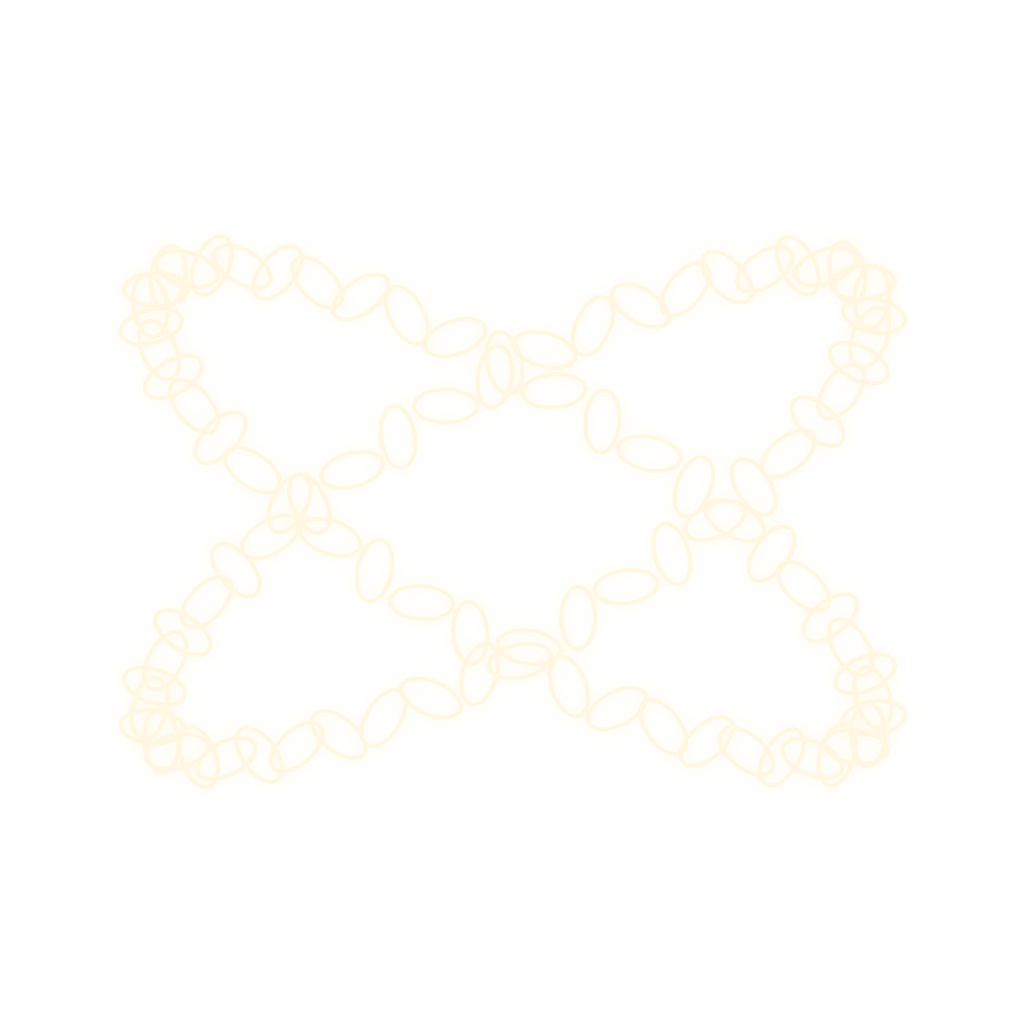
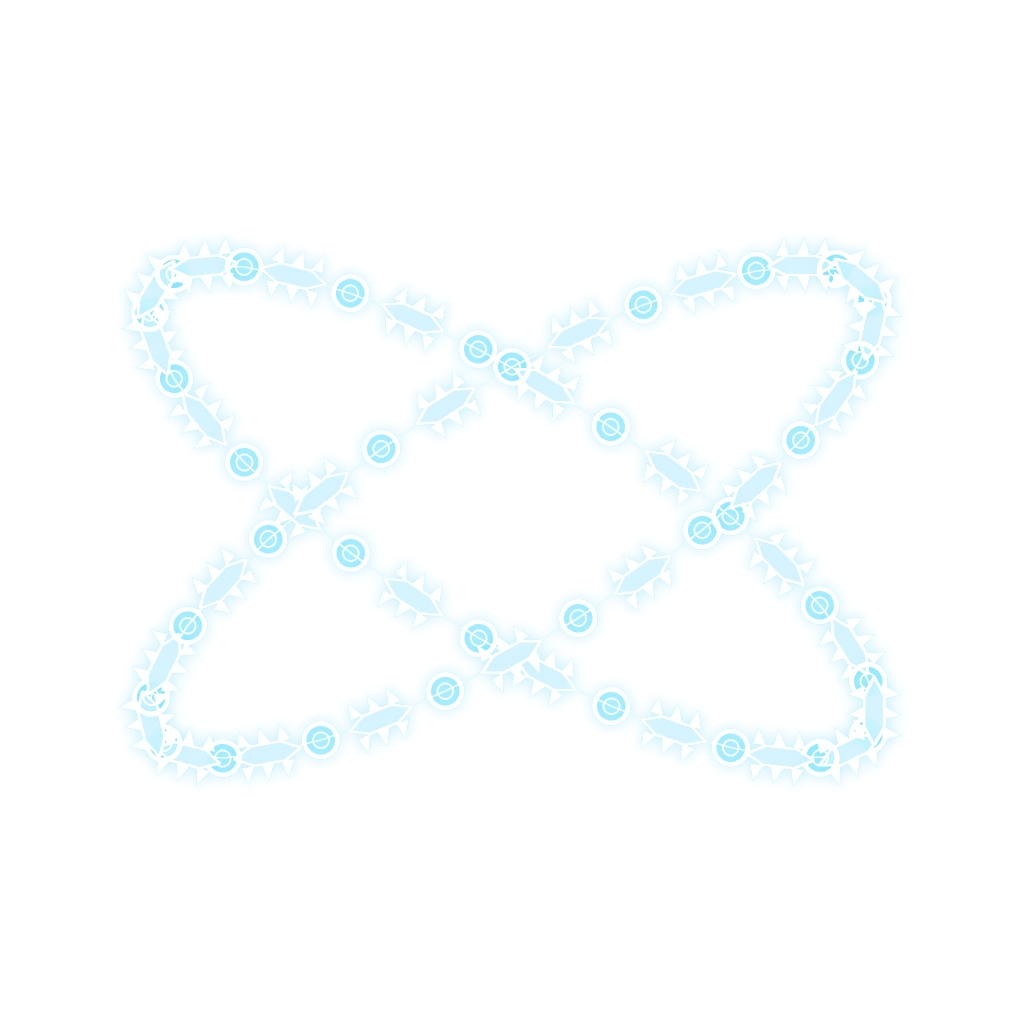
進化演出を動画に近づける: 鎖・虹の輪・光条の画像を焼き直し、砕けた破片・左下の玉・きらめきを追加
Claude-Session: https://claude.ai/code/session_01FxCrk9hxf4oWbZTpVnS7bs

Changed region(s): [[0.125, 0.2188, 0.9062, 0.7812]]

diff --git a/web/src/BattleScreen.jsx b/web/src/BattleScreen.jsx
@@ -297,7 +297,8 @@ function useSummonSlide() {
 
 const EVO_IMG = (n) => `url(${import.meta.env?.BASE_URL || '/'}fx/evolve/${n}.webp)`
 const EVO_L = { position: 'absolute', inset: 0, backgroundSize: '100% 100%', backgroundRepeat: 'no-repeat', willChange: 'transform, opacity' }
-const EVO_RB = [[0.03, 0.9], [0.1, 0.7]]
+const EVO_RB = [[0.03, 0.95], [0.11, 0.6]]
+const EVO_TWINKLE = Array.from({ length: 26 }, (_, n) => { const a = n * 2.39996; const rr = 20 + (n % 6) * 11; const cs = ['#ffffff', '#ffe3f0', '#d6f6ff', '#fff6c8', '#e8dcff']; return { x: 50 + Math.cos(a) * rr * 1.05, y: 50 + Math.sin(a) * rr * 1.12, s: 2 + (n % 4) * 1.4, c: cs[n % 5], d: 0.12 + (n % 9) * 0.045, dur: 0.4 + (n % 4) * 0.08 } }) // 動画の丸いパステルのきらめき(白・桃・水色・黄・薄紫)
 const EVO_SPARK = Array.from({ length: 24 }, (_, n) => { const a = n * 2.39996; const ring = 54 + (n % 4) * 7; return { x: 50 + Math.cos(a) * ring, y: 50 + Math.sin(a) * ring * 1.05, s: 2 + (n % 3) * 1.6, dx: Math.round(Math.cos(a) * (14 + (n % 3) * 6)), dy: -8 - (n % 4) * 7, d: 0.42 + (n % 8) * 0.03, dur: 0.38 + (n % 4) * 0.08 } }) // 鎖がほどけて砕け、青白い破片になって外へ散る(動画: 鎖が絞られ → ほどけ → 破片)
 // 名前が枠に入り切らないときは、2行にせず、1行に収まるまで文字を小さくする(動かさない)。
 // 小さくしすぎて読めなくならないよう、下限(元の約55%)で止め、それでも入らない分は「…」で省く
@@ -493,12 +494,16 @@ export function UnitCard({ unit, active, selected, selectable, lift = true, insp
             <span style={{ ...EVO_L, backgroundImage: EVO_IMG('rays'), opacity: 0, animation: 'feel-ev2-burst 0.3s ease-out 0.04s both' }} />
           </span>
           <span style={{ position: 'absolute', inset: 0, borderRadius: 8, background: '#fff', opacity: 0, animation: 'feel-ev2-flash 0.24s ease-out 0s both' }} />
-          <span style={{ position: 'absolute', inset: -2, borderRadius: 10, boxShadow: '0 0 16px 5px rgba(255,236,150,0.95), inset 0 0 14px 2px rgba(255,244,190,0.8)', opacity: 0, animation: 'feel-ev2-rim 0.8s ease-in-out 0.1s both', willChange: 'opacity' }} />
-          <span style={{ position: 'absolute', left: '50%', top: '50%', height: '122%', aspectRatio: '1', transform: 'translate(-50%, -50%)' }}><span style={{ position: 'absolute', inset: 0, borderRadius: '50%', background: 'radial-gradient(circle, rgba(255,255,255,0.98) 0%, rgba(255,235,250,0.95) 45%, rgba(255,214,240,0.75) 72%, rgba(255,255,255,0) 100%)', opacity: 0, animation: 'feel-ev2-orb 0.34s ease-out 0.02s both', willChange: 'transform, opacity' }} /></span>
+          <span style={{ position: 'absolute', left: '-4%', bottom: '-4%', width: '30%', aspectRatio: '1', borderRadius: '50%', border: '3px solid rgba(150,236,255,0.95)', background: 'radial-gradient(circle, rgba(190,248,255,0.85) 0%, rgba(90,200,246,0.55) 60%, rgba(60,170,240,0.1) 100%)', boxShadow: '0 0 14px 4px rgba(110,222,255,0.8)', opacity: 0, animation: 'feel-ev2-coin 0.5s ease-out 0s both', willChange: 'transform, opacity' }} />
+          <span style={{ position: 'absolute', inset: -2, borderRadius: 10, boxShadow: '0 0 18px 6px rgba(196,246,238,0.9), inset 0 0 14px 2px rgba(236,255,250,0.75)', opacity: 0, animation: 'feel-ev2-rim 0.8s ease-in-out 0.1s both', willChange: 'opacity' }} />
+          <span style={{ position: 'absolute', left: '50%', top: '50%', height: '122%', aspectRatio: '1', transform: 'translate(-50%, -50%)' }}><span style={{ position: 'absolute', inset: 0, borderRadius: '50%', background: 'radial-gradient(circle, rgba(255,255,252,0.98) 0%, rgba(255,250,228,0.95) 45%, rgba(255,242,205,0.7) 72%, rgba(255,255,255,0) 100%)', opacity: 0, animation: 'feel-ev2-orb 0.34s ease-out 0.02s both', willChange: 'transform, opacity' }} /></span>
           <span style={{ position: 'absolute', left: '50%', top: '50%', height: '210%', aspectRatio: '1', transform: 'translate(-50%, -50%)' }}>
-            <span style={{ ...EVO_L, backgroundImage: EVO_IMG('chain'), opacity: 0, animation: 'feel-ev2-chain 0.62s ease-in-out 0.03s both' }} />
-            <span style={{ ...EVO_L, backgroundImage: EVO_IMG('chain'), opacity: 0, animation: 'feel-ev2-chain2 0.62s ease-in-out 0.08s both' }} />
+            <span style={{ ...EVO_L, backgroundImage: EVO_IMG('chain'), opacity: 0, animation: 'feel-ev2-chain 0.5s ease-in-out 0.05s both' }} />
+            <span style={{ ...EVO_L, backgroundImage: EVO_IMG('chain'), opacity: 0, animation: 'feel-ev2-chain2 0.5s ease-in-out 0.07s both' }} />
+            <span style={{ ...EVO_L, backgroundImage: EVO_IMG('shards'), opacity: 0, animation: 'feel-ev2-shard 0.5s ease-out 0.28s both' }} />
+            <span style={{ ...EVO_L, backgroundImage: EVO_IMG('shards'), opacity: 0, transform: 'scaleX(-1)', animation: 'feel-ev2-shard2 0.5s ease-out 0.32s both' }} />
           </span>
+          {EVO_TWINKLE.map((q, n) => <span key={`tw${n}`} style={{ position: 'absolute', left: `${q.x}%`, top: `${q.y}%`, width: q.s, height: q.s, marginLeft: -q.s / 2, marginTop: -q.s / 2, borderRadius: '50%', background: q.c, boxShadow: `0 0 ${q.s + 3}px ${q.s / 3}px ${q.c}`, opacity: 0, animation: `feel-ev2-tw ${q.dur}s ease-in-out ${q.d}s both`, willChange: 'transform, opacity' }} />)}
           {EVO_SPARK.map((q, n) => <span key={`sp${n}`} style={{ position: 'absolute', left: `${q.x}%`, top: `${q.y}%`, width: q.s, height: q.s, marginLeft: -q.s / 2, marginTop: -q.s / 2, borderRadius: '50%', background: '#fff', boxShadow: '0 0 5px 1px rgba(170,238,255,0.95)', opacity: 0, '--dx': `${q.dx}px`, '--dy': `${q.dy}px`, animation: `feel-ev2-spark ${q.dur}s ease-out ${q.d}s both`, willChange: 'transform, opacity' }} />)}
         </span>
       )}
@@ -986,7 +991,7 @@ function reorderBoost(evs) {
   return out
 }
 export const VANISH_SLOW = 1 // 消滅エフェクトの長さの倍率。1 = 0.9秒(ルール画面と同じ基準・56コマで約62fps)。EFFECTS.mdの基準値。
-const EVENT_MS = { turn: 700, ability: 300, attack: 300, damage: 900, heal: 800, summon: 800, block: 800, buff: 900, keyword: 900, evolve: 1050, destroy: 800, vanish: Math.round(950 * VANISH_SLOW), av: 800, sync: 300 }
+const EVENT_MS = { turn: 700, ability: 300, attack: 300, damage: 900, heal: 800, summon: 800, block: 800, buff: 900, keyword: 900, evolve: 1000, destroy: 800, vanish: Math.round(950 * VANISH_SLOW), av: 800, sync: 300 }
 
 // 案内所 → CPU戦 → チーム を通って来たとき(flow)は、levelInit / teamInit / spellsInit が渡され、すぐ対戦が始まる。onBackLevel: レベルを選ぶ画面へ / onBackTeam: チームを選ぶ画面へ
 export default function BattleScreen({ format = 'rotation', settingsView = null, onExit, cpuDelay = 700, rewardApi: rewardApiProp = null, partyApi = null, levelInit = null, teamInit = null, spellsInit = null, onBackLevel = null, onBackTeam = null, online = null, testInit = null }) {

diff --git a/web/src/ui.js b/web/src/ui.js
@@ -116,11 +116,15 @@ if (typeof document !== 'undefined' && !document.getElementById('feel-base-style
     @keyframes feel-ev2-rb { 0% { opacity: 0; transform: scale(0.55); } 30% { opacity: var(--o, 0.9); } 100% { opacity: 0; transform: scale(1.3); } }
     @keyframes feel-ev2-ray { 0% { opacity: 0; transform: scale(0.55) rotate(0deg); } 25% { opacity: 0.9; } 100% { opacity: 0; transform: scale(1.2) rotate(6deg); } }
     @keyframes feel-ev2-burst { 0% { opacity: 0; transform: scale(0.7); } 30% { opacity: 1; } 100% { opacity: 0; transform: scale(1.5); } }
-    @keyframes feel-ev2-flash { 0% { opacity: 0; } 22% { opacity: 1; } 55% { opacity: 0.45; } 100% { opacity: 0; } }
+    @keyframes feel-ev2-flash { 0% { opacity: 0; } 25% { opacity: 1; } 60% { opacity: 0.35; } 100% { opacity: 0; } }
     @keyframes feel-ev2-rim { 0% { opacity: 0; } 20% { opacity: 0.95; } 55% { opacity: 0.7; } 100% { opacity: 0; } }
     @keyframes feel-ev2-orb { 0% { opacity: 0; transform: scale(0.6); } 30% { opacity: 0.85; transform: scale(1); } 100% { opacity: 0; transform: scale(1.35); } }
-    @keyframes feel-ev2-chain { 0% { opacity: 0; transform: scale(1.12) rotate(-12deg); } 16% { opacity: 1; } 48% { opacity: 1; transform: scale(0.9) rotate(14deg); } 100% { opacity: 0; transform: scale(1.22) rotate(42deg); } }
-    @keyframes feel-ev2-chain2 { 0% { opacity: 0; transform: scale(1.16) rotate(12deg); } 16% { opacity: 0.9; } 48% { opacity: 0.9; transform: scale(0.94) rotate(-14deg); } 100% { opacity: 0; transform: scale(1.26) rotate(-42deg); } }
+    @keyframes feel-ev2-chain { 0% { opacity: 0; transform: scale(1.1) rotate(-8deg); } 26% { opacity: 1; transform: scale(1.04) rotate(0deg); } 56% { opacity: 1; transform: scale(0.93) rotate(10deg); } 82% { opacity: 0.9; transform: scale(1.1) rotate(22deg); } 100% { opacity: 0; transform: scale(1.16) rotate(28deg); } }
+    @keyframes feel-ev2-chain2 { 0% { opacity: 0; transform: scale(1.14) rotate(8deg); } 26% { opacity: 0.95; transform: scale(1.06) rotate(0deg); } 56% { opacity: 0.95; transform: scale(0.96) rotate(-10deg); } 82% { opacity: 0.85; transform: scale(1.12) rotate(-22deg); } 100% { opacity: 0; transform: scale(1.18) rotate(-28deg); } }
+    @keyframes feel-ev2-shard { 0% { opacity: 0; transform: scale(0.96) rotate(0deg); } 20% { opacity: 1; } 100% { opacity: 0; transform: scale(1.26) rotate(30deg) translateY(-3%); } }
+    @keyframes feel-ev2-shard2 { 0% { opacity: 0; transform: scaleX(-1) scale(0.98) rotate(0deg); } 20% { opacity: 0.8; } 100% { opacity: 0; transform: scaleX(-1) scale(1.3) rotate(-26deg) translateY(-4%); } }
+    @keyframes feel-ev2-coin { 0% { opacity: 0; transform: scale(0.6); } 25% { opacity: 1; transform: scale(1); } 60% { opacity: 0.9; transform: scale(1.15); } 100% { opacity: 0; transform: scale(1.5); } }
+    @keyframes feel-ev2-tw { 0% { opacity: 0; transform: scale(0.3); } 35% { opacity: 1; transform: scale(1); } 100% { opacity: 0; transform: scale(0.6) translateY(-6px); } }
     @keyframes feel-ev2-spark { 0% { opacity: 0; transform: translate(0, 0) scale(0.5); } 25% { opacity: 1; } 100% { opacity: 0; transform: translate(var(--dx), var(--dy)) scale(1); } }
     @keyframes feel-d-haze { 0% { opacity: 0; transform: scale(0.5); } 15% { opacity: 0.9; transform: scale(0.9); } 100% { opacity: 0; transform: scale(1.5); } }
     @keyframes feel-d-gold { 0%, 8% { opacity: 0; transform: translate(0, 0) scale(0.4); } 22% { opacity: 1; } 100% { opacity: 0; transform: translate(var(--dx), var(--dy)) scale(1); } }

diff --git a/web/src/EffectGallery.jsx b/web/src/EffectGallery.jsx
@@ -29,7 +29,7 @@ const LIST = [
   ['能力付与', '【守護】などの能力を得る。', 900, (p) => ({ unit: baseUnit, fx: p ? { kind: 'keyword', text: '【守護】獲得' } : null })],
   ['召喚', 'ユニットが場に出る。', 800, (p) => ({ unit: baseUnit, fx: p ? { kind: 'summon', text: '登場!' } : null })],
   ['攻撃を防ぐ', 'バリアや回避で、ダメージが入らない。', 800, (p) => ({ unit: baseUnit, fx: p ? { kind: 'block', text: '' } : null })],
-  ['進化', '虹色の波紋と光の筋、白い光の球、鎖状の輪(参考動画の再現。ユニットは回転しない)。', 1050, (p) => ({ unit: baseUnit, fx: p ? { kind: 'evolve', text: '' } : null })],
+  ['進化', '虹色の波紋と光の筋、白い光の球、鎖状の輪(参考動画の再現。ユニットは回転しない)。', 1000, (p) => ({ unit: baseUnit, fx: p ? { kind: 'evolve', text: '' } : null })],
   ['破壊(ラストワードなし)', '金白の閃光から、金色の粒になって散る。', 800, (p) => ({ unit: p ? { ...baseUnit, hp: 0, alive: false } : baseUnit, fx: p ? { kind: 'none', text: '', die: 'destroy', lw: false } : null })],
   ['破壊(ラストワードあり)', '赤い円とドクロ。そのあと、ラストワードが発動する。', 800, (p) => ({ unit: p ? { ...baseUnit, hp: 0, alive: false } : baseUnit, fx: p ? { kind: 'none', text: '', die: 'destroy', lw: true } : null })],
   ['消滅', '電気の輪が広がって縮み、光の粒になる。', Math.round(950 * VANISH_SLOW), (p) => ({ unit: p ? { ...baseUnit, hp: 0, alive: false } : baseUnit, fx: p ? { kind: 'none', text: '', die: 'vanish' } : null })],

diff --git a/web/tools/bake-evolve.py b/web/tools/bake-evolve.py
@@ -19,47 +19,94 @@ def save(rgb, a, name):
 
 def rays():
     I = np.zeros((N, N), np.float32)
-    for _ in range(54):
-        a0 = rng.uniform(-math.pi, math.pi); w = rng.uniform(0.0035, 0.016); amp = rng.uniform(0.35, 1.0); ln = rng.uniform(0.55, 1.0)
+    for _ in range(72):
+        a0 = rng.uniform(-math.pi, math.pi); w = rng.uniform(0.002, 0.011); amp = rng.uniform(0.35, 1.0); ln = rng.uniform(0.55, 1.0)
         d = np.abs(((ang - a0 + math.pi) % (2 * math.pi)) - math.pi)
         I += amp * np.exp(-(d / w) ** 2) * np.clip(1 - r / ln, 0, 1) ** 0.8 * np.clip(r / 0.06, 0, 1)
     I = np.clip(I + np.exp(-(r / 0.16) ** 2) * 0.9, 0, 1)
     save(np.dstack([np.ones_like(I), 0.96 - 0.06 * r, 0.84 - 0.2 * r]), I, 'rays.webp')
 
 def rainbow():
-    h = (ang / (2 * math.pi) + 0.5)
-    def ch(n):
-        k = (n + h * 6) % 6
-        return 1 - np.clip(np.minimum(np.minimum(k, 4 - k), 1), 0, 1) * 0.55
-    A = np.zeros((N, N), np.float32)
-    for r0, w, amp in ((0.50, 0.06, 0.55), (0.62, 0.035, 0.4), (0.38, 0.045, 0.35)):
-        A += amp * np.exp(-((r - r0) / w) ** 2)
-    A += 0.18 * np.exp(-((r - 0.5) / 0.28) ** 2)
-    A *= 0.75 + 0.25 * np.sin(ang * 3 + r * 9)
-    A *= np.clip((1 - r) / 0.12, 0, 1)
-    save(np.dstack([ch(5), ch(3), ch(1)]) * 0.85 + 0.15, A, 'rainbow.webp')
+    # 動画の輪: 内側の縁が白金に明るく、外へ向かって 黄緑 → 水色 → 薄紫 とパステルに薄れる、厚い1本の輪
+    r0 = 0.47
+    rise = np.clip((r - (r0 - 0.07)) / 0.07, 0, 1) ** 1.5
+    fall = np.exp(-np.clip(r - r0, 0, None) / 0.15)
+    A = np.clip(rise * np.where(r <= r0, 1.0, fall) * 1.3, 0, 1)
+    A *= np.clip((1 - r) / 0.1, 0, 1)
+    A *= 0.82 + 0.18 * np.sin(ang * 2 + 1.3)
+    u = np.clip((r - r0) / 0.3, 0, 1)
+    c0 = np.array([1.0, 0.97, 0.78]); c1 = np.array([0.72, 1.0, 0.82]); c2 = np.array([0.68, 0.86, 1.0]); c3 = np.array([0.86, 0.78, 1.0])
+    def lerp(a_, b_, t): return a_[None, None, :] * (1 - t[..., None]) + b_[None, None, :] * t[..., None]
+    col = np.where((u < 0.34)[..., None], lerp(c0, c1, np.clip(u / 0.34, 0, 1)), np.where((u < 0.67)[..., None], lerp(c1, c2, np.clip((u - 0.34) / 0.33, 0, 1)), lerp(c2, c3, np.clip((u - 0.67) / 0.33, 0, 1))))
+    col = np.where((r < r0)[..., None], c0[None, None, :], col)
+    col = col * (0.9 + 0.1 * np.sin(ang * 3)[..., None])
+    save(col.astype(np.float32), A, 'rainbow.webp')
+
+def chain_path(tilt, n, phase=0.0, rx=420, ry=125):
+    pts = []
+    for k in range(n):
+        t = 2 * math.pi * (k + phase) / n
+        x, y = rx * math.cos(t), ry * math.sin(t)
+        X = x * math.cos(tilt) - y * math.sin(tilt); Y = x * math.sin(tilt) + y * math.cos(tilt)
+        tx, ty = -rx * math.sin(t), ry * math.cos(t)
+        T = math.atan2(tx * math.sin(tilt) + ty * math.cos(tilt), tx * math.cos(tilt) - ty * math.sin(tilt))
+        pts.append((N / 2 + X, N / 2 + Y, T))
+    return pts
 
 def chain():
+    # 動画の鎖: 水色に光る輪っか(中が薄い水色)と、トゲの飾りを、細い線でつないだもの。輪は2本、逆に傾けて交差させる
     S = 2
-    im = Image.new('L', (N * S, N * S), 0); d = ImageDraw.Draw(im)
-    def loop(rx, ry, tilt, n, rr, phase=0.0):
-        for k in range(n):
-            t = 2 * math.pi * (k + phase) / n
-            x, y = rx * math.cos(t), ry * math.sin(t)
-            X = x * math.cos(tilt) - y * math.sin(tilt); Y = x * math.sin(tilt) + y * math.cos(tilt)
-            px, py = (N / 2 + X) * S, (N / 2 + Y) * S
-            a = t + math.pi / 2 + (k % 2) * math.pi / 2
-            ex, ey = rr * 1.5 * S, rr * 0.8 * S
-            pts = [(px + ex * math.cos(u) * math.cos(a) - ey * math.sin(u) * math.sin(a), py + ex * math.cos(u) * math.sin(a) + ey * math.sin(u) * math.cos(a)) for u in np.linspace(0, 2 * math.pi, 40)]
-            d.line(pts + [pts[0]], fill=255, width=int(4.2 * S))
-    loop(420, 125, math.radians(32), 46, 21)
-    loop(420, 125, math.radians(-32), 46, 21, 0.5)
-    im = im.resize((N, N), Image.LANCZOS)
-    core = np.asarray(im, np.float32) / 255
-    glow = np.asarray(im.filter(ImageFilter.GaussianBlur(7)), np.float32) / 255
-    A = np.clip(core + glow * 0.9, 0, 1) * np.clip((1 - r) / 0.08, 0, 1)
-    one = np.ones_like(A)
-    save(np.dstack([one, 0.97 * one, 0.88 * one]), A, 'chain.webp')
+    W = Image.new('L', (N * S, N * S), 0); dW = ImageDraw.Draw(W)   # 白い線
+    Cy = Image.new('L', (N * S, N * S), 0); dC = ImageDraw.Draw(Cy)  # 水色の塗り
+    def rot(px, py, ang_, x, y): return (px + (x * math.cos(ang_) - y * math.sin(ang_)) * S, py + (x * math.sin(ang_) + y * math.cos(ang_)) * S)
+    for tilt, phase in ((math.radians(32), 0.0), (math.radians(-32), 0.5)):
+        pts = chain_path(tilt, 34, phase)
+        for i, (x, y, T) in enumerate(pts):
+            px, py = x * S, y * S
+            nx, ny, _ = pts[(i + 1) % len(pts)]
+            dW.line([(px, py), (nx * S, ny * S)], fill=200, width=int(2.2 * S))  # 細い線
+            if i % 2 == 0:  # 輪っか
+                R = 19 * S
+                dC.ellipse([px - R * 0.8, py - R * 0.8, px + R * 0.8, py + R * 0.8], fill=150)
+                dW.ellipse([px - R, py - R, px + R, py + R], outline=255, width=int(5 * S))
+                dW.ellipse([px - R * 0.45, py - R * 0.45, px + R * 0.45, py + R * 0.45], outline=230, width=int(2 * S))
+            else:           # トゲの飾り: 細長いひし形 + 左右3対のトゲ
+                L, Wd = 34, 10
+                body = [rot(px, py, T, *p) for p in ((-L, 0), (-L * 0.45, -Wd), (L * 0.45, -Wd), (L, 0), (L * 0.45, Wd), (-L * 0.45, Wd))]
+                dW.polygon(body, outline=255, fill=120); dW.line(body + [body[0]], fill=255, width=int(3.4 * S))
+                for k in (-0.6, 0, 0.6):
+                    for sgn in (-1, 1):
+                        a_ = [rot(px, py, T, L * k - 5, sgn * Wd), rot(px, py, T, L * k + 4, sgn * (Wd + 17)), rot(px, py, T, L * k + 8, sgn * Wd)]
+                        dW.polygon(a_, fill=240)
+    W = W.resize((N, N), Image.LANCZOS); Cy = Cy.resize((N, N), Image.LANCZOS)
+    w = np.asarray(W, np.float32) / 255; cy = np.asarray(Cy, np.float32) / 255
+    glow = np.asarray(W.filter(ImageFilter.GaussianBlur(6)), np.float32) / 255
+    A = np.clip(np.maximum(w, cy * 0.75) + glow * 0.75, 0, 1) * np.clip((1 - r) / 0.08, 0, 1)
+    wt = np.clip(w * 1.1, 0, 1)
+    rgb = np.dstack([wt + (1 - wt) * 0.62 * (1 - cy * 0.3), wt + (1 - wt) * 0.9, wt + (1 - wt) * 1.0])
+    save(np.clip(rgb, 0, 1), A, 'chain.webp')
 
-rays(); rainbow(); chain()
+def shards():
+    # 鎖が砕けた破片: 鎖の通り道に沿って散らばる、角ばった細かい水色・白の破片
+    S = 2
+    im = Image.new('RGB', (N * S, N * S), (0, 0, 0)); d = ImageDraw.Draw(im)
+    A = Image.new('L', (N * S, N * S), 0); dA = ImageDraw.Draw(A)
+    cols = [(255, 255, 255), (206, 246, 255), (190, 236, 255), (226, 214, 255), (170, 230, 250)]
+    for tilt, phase in ((math.radians(32), 0.0), (math.radians(-32), 0.5)):
+        for (x, y, T) in chain_path(tilt, 150, phase):
+            for _ in range(2):
+                off = rng.normal(0, 22); sp = rng.uniform(0, 1)
+                cx_, cy_ = x + math.cos(T + math.pi / 2) * off + rng.normal(0, 9), y + math.sin(T + math.pi / 2) * off + rng.normal(0, 9)
+                sz = rng.uniform(4, 17); a0 = rng.uniform(0, 2 * math.pi); col = cols[int(rng.integers(0, len(cols)))]
+                n_ = int(rng.integers(3, 5)); poly = []
+                for k in range(n_):
+                    aa = a0 + 2 * math.pi * k / n_ + rng.uniform(-0.5, 0.5); rr_ = sz * (rng.uniform(0.35, 1.0) if k % 2 else 1.0)
+                    poly.append(((cx_ + math.cos(aa) * rr_ * 1.6) * S, (cy_ + math.sin(aa) * rr_ * 0.7) * S))
+                d.polygon(poly, fill=col); dA.polygon(poly, fill=int(rng.uniform(170, 255)))
+    im = im.resize((N, N), Image.LANCZOS); A = A.resize((N, N), Image.LANCZOS)
+    a = np.asarray(A, np.float32) / 255; glow = np.asarray(A.filter(ImageFilter.GaussianBlur(5)), np.float32) / 255
+    rgb = 0.7 + 0.3 * np.asarray(im, np.float32) / 255  # 縁が黒くならないよう、明るい水色寄りに底上げ
+    save(rgb, np.clip(a * 1.15 + glow * 0.6, 0, 1) * np.clip((1 - r) / 0.08, 0, 1), 'shards.webp')
+
+rays(); rainbow(); chain(); shards()
 print('ok', os.listdir(OUT))

diff --git a/web/EFFECTS.md b/web/EFFECTS.md
@@ -59,7 +59,8 @@ Feel のすべてのエフェクト・アニメーションは、スマホでも
 
 ## 進化の再調整(11/21): 新しい参考動画に合わせて短く・速く
 - 参考: 進化でカードの絵が切り替わる動画(約0.9秒)。20fpsで読み取った段階を、全体1.05秒(旧1.5秒)に詰めた。①0秒 カードが白く光る・放射状の光 → ②0.03〜0.4秒 虹色の大きな輪が広がる・白金の光の球 → ③0.03〜0.65秒 鎖の輪が外から絞られて(scale 1.12→0.9)、逆回りにほどけて消える → ④0.42〜0.9秒 青白い破片(24個、鎖の位置から外・上へ散る) → ⑤縁の金色の光が0.1〜0.9秒で消える。
-- 画像(rays / rainbow / chain)は変えていない。キーフレームは `src/ui.js` の `feel-ev2-*`、タイミングは `BattleScreen.jsx` の進化部分。`EVENT_MS.evolve` は1050ms。
+- 11/21(2回目・「完全再現」の依頼): 画像を動画に合わせて焼き直した。chain=水色の輪っか+トゲ飾りを細い線でつないだ鎖(2本、逆に傾けて交差)、shards=鎖が砕けた角ばった水色・白の破片(新規。鎖の通り道に沿う)、rainbow=内側の縁が明るく外へ黄→緑→水色→薄紫とパステルに薄れる厚い1本の輪、rays=細く長く。ほかに、左下の水色の玉(進化ポイントの予備動作)、丸いパステルのきらめき26個を追加。長さは1.0秒。
+- (旧) 画像(rays / rainbow / chain)は変えていない。キーフレームは `src/ui.js` の `feel-ev2-*`、タイミングは `BattleScreen.jsx` の進化部分。`EVENT_MS.evolve` は1050ms。
 - 確認: エフェクト一覧でコマを撮り、順序を見た。動画と同じ時刻での1コマずつの比較・実機のなめらかさ・5体同時は未確認。参考動画の「小さな青い玉が左下に出る」予備動作は入れていない。
 
 ## ランダムマッチ画面の動き(11/10)
